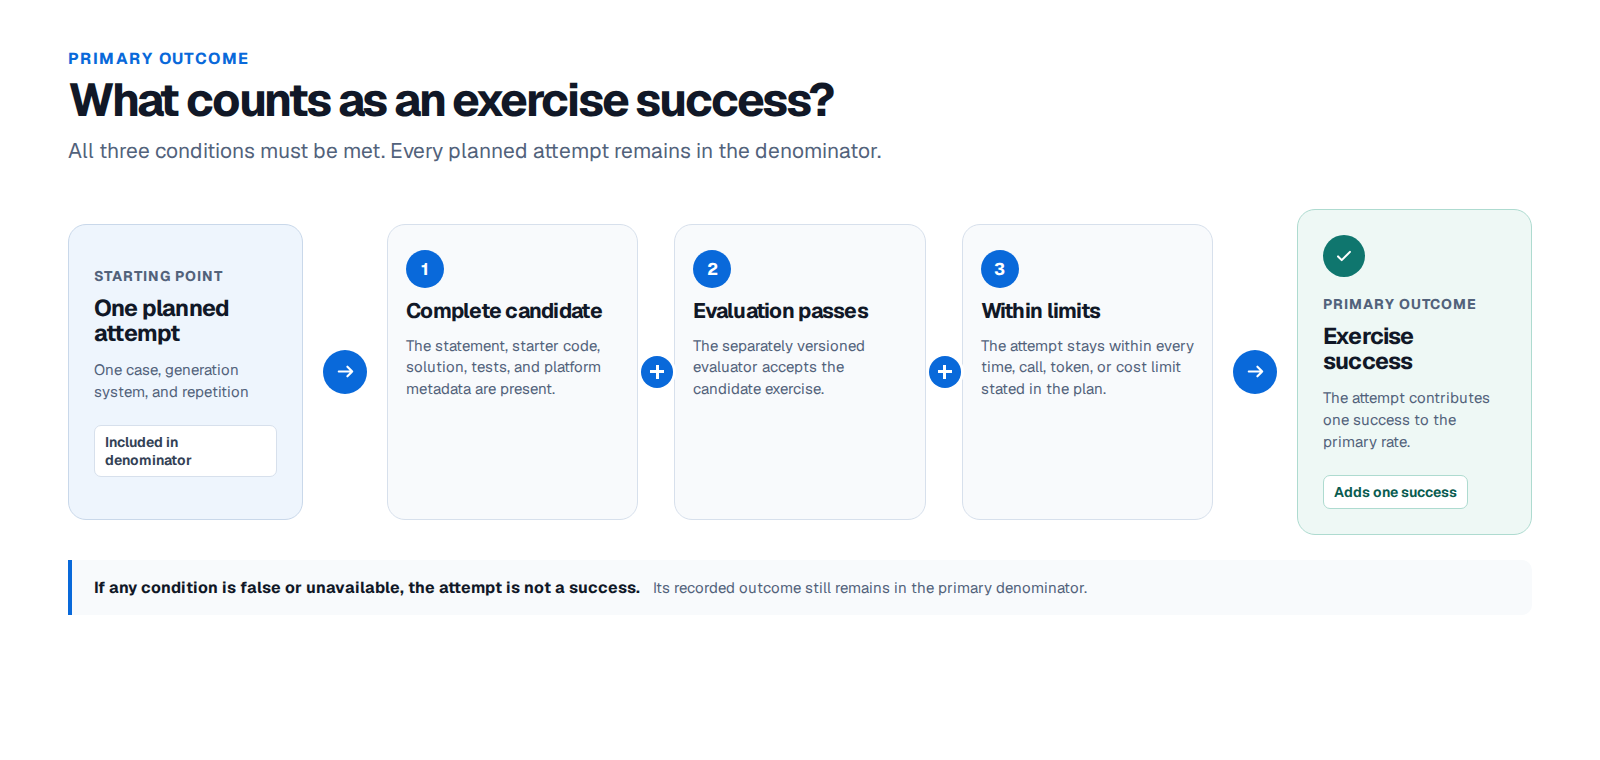
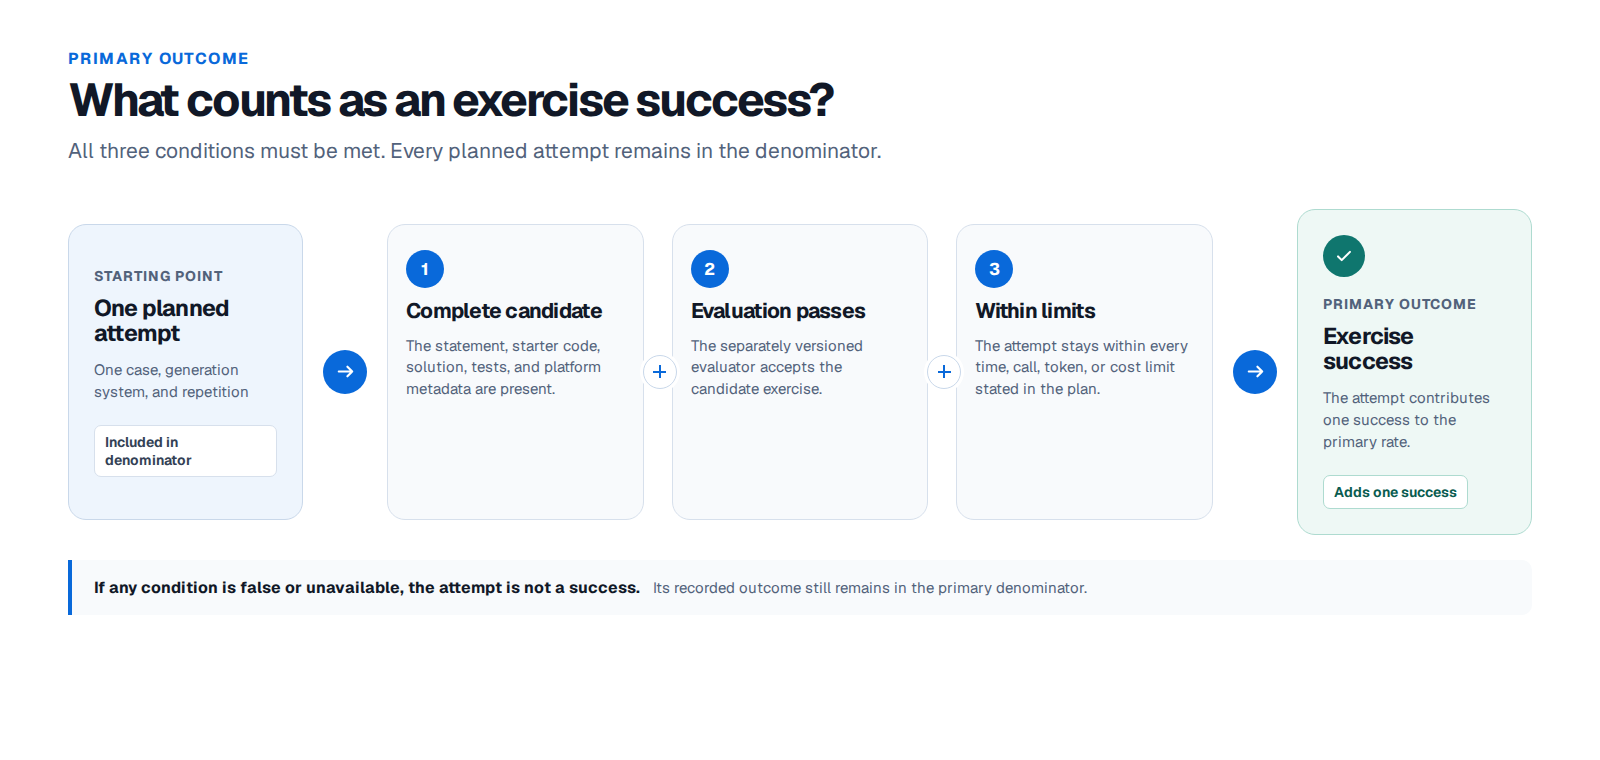
Refine public visual hierarchy

Changed region(s): [[0.5625, 0.3329, 0.75, 0.5447], [0.375, 0.3934, 0.5625, 0.5447], [0.4375, 0.3329, 0.4688, 0.3632]]

diff --git a/site/social-preview.css b/site/social-preview.css
@@ -21,33 +21,44 @@ body {
 }
 
 main {
-  position: relative;
   display: grid;
   width: 100%;
   height: 640px;
-  padding: 64px 72px 58px;
-  grid-template-columns: 617px 1fr;
-  grid-template-rows: 70px 1fr;
-  column-gap: 72px;
+  padding: 44px 48px 42px;
+  grid-template-columns: 650px 1fr;
+  grid-template-rows: 72px 1fr;
+  column-gap: 48px;
 }
 
 .preview-brand {
-  display: flex;
+  display: grid;
   grid-column: 1 / -1;
+  grid-template-columns: 58px 1fr;
+  grid-template-rows: auto auto;
+  column-gap: 16px;
   align-items: center;
-  gap: 18px;
-  letter-spacing: -0.04em;
+}
+
+.preview-brand img {
+  width: 58px;
+  height: 58px;
+  grid-row: 1 / -1;
 }
 
 .preview-brand strong {
-  font-size: 34px;
+  align-self: end;
+  font-size: 31px;
   font-weight: 730;
+  letter-spacing: -0.04em;
+  line-height: 1;
 }
 
 .preview-brand span {
+  align-self: start;
   color: var(--brand-muted);
-  font-size: 31px;
-  font-weight: 570;
+  font-size: 17px;
+  font-weight: 520;
+  line-height: 1.25;
 }
 
 .preview-introduction {
@@ -82,19 +93,9 @@ main {
   line-height: 1.45;
 }
 
-.preview-url {
-  position: absolute;
-  bottom: 56px;
-  left: 72px;
-  margin: 0;
-  color: var(--brand-muted);
-  font-size: 18px;
-  font-weight: 500;
-}
-
 .preview-pipeline {
   align-self: center;
-  padding: 27px 32px;
+  padding: 24px 28px;
   background: var(--brand-surface);
   border: 1px solid var(--brand-border);
   border-radius: 24px;

diff --git a/docs/figures/success-definition.css b/docs/figures/success-definition.css
@@ -171,7 +171,7 @@ article > strong:last-child {
   margin: 0;
   padding: 0;
   grid-template-columns: repeat(3, 1fr);
-  gap: 36px;
+  gap: 28px;
   list-style: none;
 }
 
@@ -189,13 +189,14 @@ article > strong:last-child {
   position: absolute;
   z-index: 2;
   top: 50%;
-  left: -34px;
+  left: -30px;
   width: 32px;
   height: 32px;
   background:
-    linear-gradient(var(--brand-white), var(--brand-white)) center / 14px 3px no-repeat,
-    linear-gradient(var(--brand-white), var(--brand-white)) center / 3px 14px no-repeat,
-    var(--brand-blue);
+    linear-gradient(var(--brand-blue), var(--brand-blue)) center / 13px 2px no-repeat,
+    linear-gradient(var(--brand-blue), var(--brand-blue)) center / 2px 13px no-repeat,
+    var(--brand-white);
+  border: 1px solid var(--brand-border-strong);
   border-radius: 999px;
   box-shadow: 0 0 0 3px var(--brand-white);
   content: "";

diff --git a/site/social-preview.html b/site/social-preview.html
@@ -10,8 +10,9 @@
   <body>
     <main aria-label="exgen-bench project overview">
       <header class="preview-brand">
+        <img src="./favicon.svg" alt="" />
         <strong>exgen-bench</strong>
-        <span>programming exercise generation</span>
+        <span>Programming exercise generation benchmark</span>
       </header>
 
       <section class="preview-introduction">
@@ -20,7 +21,6 @@
         <p class="preview-summary">
           Run the same exercise briefs, keep every outcome, and evaluate outputs separately.
         </p>
-        <p class="preview-url">ls1intum.github.io/exgen-bench</p>
       </section>
 
       <section class="preview-pipeline" aria-labelledby="preview-pipeline-title">
